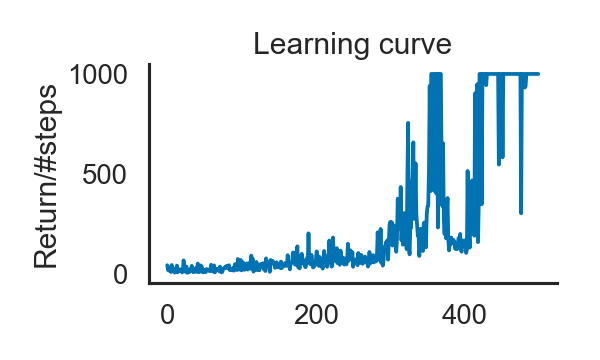
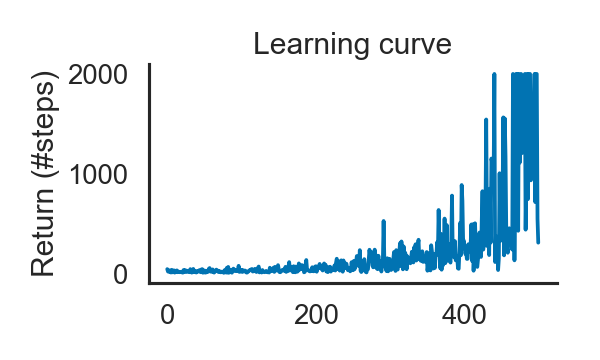
re-factor, center v estiamte

Changed region(s): [[0.27, 0.1833, 0.9, 0.7639], [0.03, 0.1833, 0.21, 0.7639]]

diff --git a/src/train.py b/src/train.py
@@ -11,37 +11,48 @@ from utils import run
 sns.set(style='white', context='talk', palette='colorblind')
 
 
-def main(env_name, n_epoch, learning_rate, gamma, seed_val=0):
+def main(
+        env_name, n_epoch, learning_rate, gamma, n_hidden,
+        seed_val=0, max_steps=1000
+):
     '''train an a2c network some gym env'''
-    # define env and agent
+    # define env
     env = gym.make(env_name).env
     env.seed(seed_val)
     np.random.seed(seed_val)
     torch.manual_seed(seed_val)
+    # define agent
     state_dim = env.observation_space.shape[0]
     n_actions = env.action_space.n
-    agent = Agent(state_dim, n_actions)
+    agent = Agent(state_dim, n_actions, dim_hidden=n_hidden)
     optimizer = torch.optim.Adam(agent.parameters(), lr=learning_rate)
-
     # train
+    log_cum_reward = np.zeros((n_epoch,))
     log_steps = np.zeros((n_epoch,))
     log_loss_v = np.zeros((n_epoch,))
     log_loss_p = np.zeros((n_epoch,))
     for i in range(n_epoch):
-        step, probs, rewards, values = run(agent, env)
+        cumulative_reward, step, probs, rewards, values = run(
+            agent, env,
+            gamma=gamma, max_steps=max_steps
+        )
         # update weights
-        returns = compute_returns(rewards, gamma=gamma)
+        returns = compute_returns(rewards, gamma=gamma, normalize=True)
         loss_policy, loss_value = compute_a2c_loss(probs, values, returns)
         loss = loss_policy + loss_value
         optimizer.zero_grad()
         loss.backward()
         optimizer.step()
         # log message
+        log_cum_reward[i] = cumulative_reward
         log_steps[i] = step
         log_loss_v[i] = loss_value.item()
         log_loss_p[i] = loss_policy.item()
         if np.mod(i, 50) == 0:
-            print('Epoch : %.3d | steps: %.2f' % (i, log_steps[i]))
+            print(
+                'Epoch : %.3d | cumulative reward: %.2f, steps: %.2f' %
+                (i, log_cum_reward[i], log_steps[i])
+            )
 
     # save weights
     torch.save(agent.state_dict(), f'../log/agent-{env_name}.pth')
@@ -50,7 +61,7 @@ def main(env_name, n_epoch, learning_rate, gamma, seed_val=0):
     f, ax = plt.subplots(1, 1, figsize=(5, 3), sharex=True)
     ax.plot(log_steps)
     ax.set_title('Learning curve')
-    ax.set_ylabel('Return/#steps')
+    ax.set_ylabel('Return (#steps)')
     sns.despine()
     f.tight_layout()
     f.savefig(f'../figs/lc-{env_name}.png', dpi=120)
@@ -60,9 +71,14 @@ if __name__ == "__main__":
     parser = argparse.ArgumentParser()
     parser.add_argument('-env', default='CartPole-v0')
     parser.add_argument('-n_epoch', default=500, type=int)
+    parser.add_argument('-n_hidden', default=128, type=int)
     parser.add_argument('-lr', default=1e-3, type=float)
     parser.add_argument('-gamma', default=.99, type=float)
+    parser.add_argument('-max_steps', default=2000, type=int)
     parser.add_argument('-seed', default=0, type=int)
     args = parser.parse_args()
     print(f'Train an agent on {args.env}...')
-    main(args.env, args.n_epoch, args.lr, args.gamma)
+    main(
+        args.env, args.n_epoch, args.lr, args.gamma, args.n_hidden,
+        seed_val=args.seed, max_steps=args.max_steps
+    )

diff --git a/src/models/A2C.py b/src/models/A2C.py
@@ -31,7 +31,7 @@ class A2C(nn.Module):
 
     """
 
-    def __init__(self, dim_input, dim_output, dim_hidden=128, dropout_rate=0):
+    def __init__(self, dim_input, dim_output, dim_hidden=128):
         super(A2C, self).__init__()
         self.dim_input = dim_input
         self.dim_hidden = dim_hidden
@@ -39,7 +39,6 @@ class A2C(nn.Module):
         self.ih = nn.Linear(dim_input, dim_hidden)
         self.actor = nn.Linear(dim_hidden, dim_output)
         self.critic = nn.Linear(dim_hidden, 1)
-        self.dropout = nn.Dropout(p=dropout_rate)
         ortho_init(self)
 
     def forward(self, x, beta=1):
@@ -59,7 +58,6 @@ class A2C(nn.Module):
 
         """
         h = F.relu(self.ih(x))
-        h = self.dropout(h)
         action_distribution = softmax(self.actor(h), beta)
         value_estimate = self.critic(h)
         return action_distribution, value_estimate

diff --git a/src/utils.py b/src/utils.py
@@ -1,10 +1,11 @@
 import torch
 
 
-def run(agent_, env, render=False, max_steps=1000):
+def run(agent_, env, gamma=.99, render=False, max_steps=1000):
     s_t = env.reset()
     probs, rewards, values = [], [], []
     step = 0
+    cumulative_reward = 0
     while step < max_steps:
         if render:
             env.render()
@@ -14,11 +15,12 @@ def run(agent_, env, render=False, max_steps=1000):
         probs.append(prob_a_t)
         rewards.append(r_t)
         values.append(v_t)
+        cumulative_reward += r_t * gamma ** step
         step += 1
         if done:
             break
     env.close()
-    return step, probs, rewards, values
+    return cumulative_reward, step, probs, rewards, values
 
 
 def to_th(np_array):
